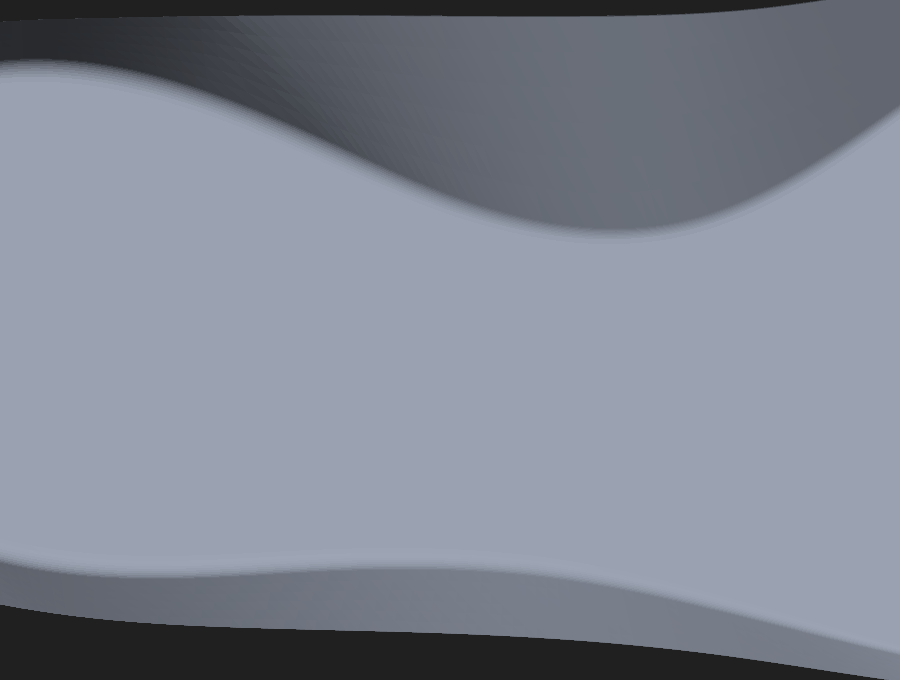
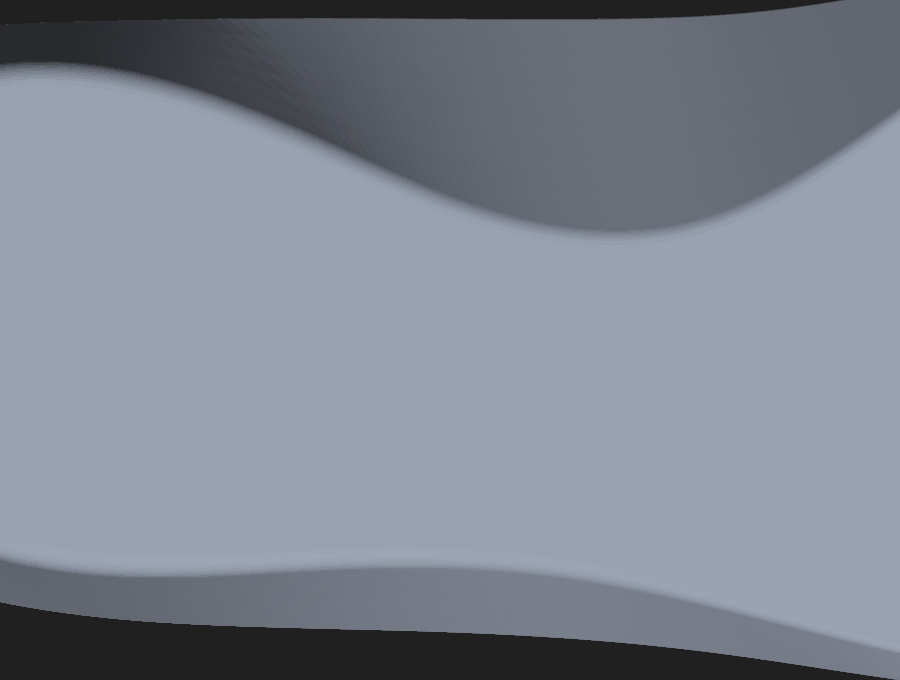
Default bottom patient name to 12 mm bold engrave
Double BOTTOM_CAP default (6→12) for Print/Export and integration textMarking;
extend bottom-engrave manifold coverage at the new default and regen diagnostic PNGs.

diff --git a/vertex/src/lib/geometry/text-marking/bottom-engrave.test.ts b/vertex/src/lib/geometry/text-marking/bottom-engrave.test.ts
@@ -15,6 +15,9 @@ import { assertExactManifold } from "./boolean";
 import { defaultTextMarking } from "./constants";
 import { TextMarkingError } from "./errors";
 
+/** G-code slice simplify threshold (#325); bottom text mesh must stay below this. */
+const SLICE_MESH_SIMPLIFY_ABOVE = 132_000;
+
 const ZERO: SideCorrections = {
     forefootPostingDeg: 0,
     rearfootPostingDeg: 0,
@@ -99,32 +102,62 @@ function openEdgeCount(geo: BufferGeometry): number {
     return open;
 }
 
+function triangleCount(geo: BufferGeometry): number {
+    const index = geo.getIndex();
+    const pos = geo.getAttribute("position");
+    if (index) return index.count / 3;
+    return pos.count / 3;
+}
+
+function defaultBottomPatientMarking() {
+    const marking = defaultTextMarking("bottom");
+    expect(marking.capHeightMm).toBe(12);
+    expect(marking.bold).toBe(true);
+    return {
+        ...marking,
+        text: "",
+        addPatientName: true,
+        anchor: "arch" as const,
+    };
+}
+
 describe("bottom patient-name engrave on SAMPLE_Top", () => {
-    test("TIMOTHY HARTER and GARY PURKEY stay closed at 6 mm bold", async () => {
+    test("12 mm bold default: TIMOTHY HARTER, GARY PURKEY, and 2-line name+extra", async () => {
         for (const side of ["left", "right"] as const) {
             const host = await loftFoot(side);
             const hostVol = Math.abs(signedVolume(host));
-            for (const name of ["TIMOTHY HARTER", "GARY PURKEY"]) {
-                const marking = {
-                    ...defaultTextMarking("bottom"),
-                    text: "",
-                    addPatientName: true,
-                    bold: true,
-                    capHeightMm: 6,
-                    depthMm: 0.6,
-                    anchor: "arch" as const,
-                };
-                const out = await applyTextMarkingToPrintSolid(host, marking, { side }, name);
+            const cases: Array<{
+                patient: string;
+                marking?: ReturnType<typeof defaultBottomPatientMarking>;
+            }> = [
+                { patient: "TIMOTHY HARTER" },
+                { patient: "GARY PURKEY" },
+                {
+                    patient: "TIMOTHY HARTER",
+                    marking: {
+                        ...defaultBottomPatientMarking(),
+                        text: "RX 42",
+                    },
+                },
+            ];
+            for (const { patient, marking = defaultBottomPatientMarking() } of cases) {
+                expect(marking.capHeightMm).toBe(12);
+                const out = await applyTextMarkingToPrintSolid(host, marking, { side }, patient);
                 await assertExactManifold(out);
                 expect(openEdgeCount(out)).toBe(0);
                 expect(hostVol - Math.abs(signedVolume(out))).toBeGreaterThan(0);
+                expect(triangleCount(out)).toBeLessThanOrEqual(SLICE_MESH_SIMPLIFY_ABOVE);
                 const outlines = (out.userData as { bottomOutlineWorld?: unknown[] }).bottomOutlineWorld;
                 expect(outlines?.length ?? 0).toBeGreaterThan(0);
+                const appliedCap = (out.userData as { textMarking?: { capHeightMm?: number } }).textMarking
+                    ?.capHeightMm;
+                expect(appliedCap ?? 0).toBeGreaterThanOrEqual(2.5);
+                expect(appliedCap ?? 99).toBeLessThanOrEqual(12);
                 out.dispose();
             }
             host.dispose();
         }
-    }, 180_000);
+    }, 360_000);
 });
 
 describe("assertExactManifold", () => {

diff --git a/vertex/src/lib/geometry/text-marking/text-marking.test.ts b/vertex/src/lib/geometry/text-marking/text-marking.test.ts
@@ -54,7 +54,9 @@ describe("text marking controls", () => {
     test("UI/geometry bounds: cap, depth, u per surface", () => {
         const bottom = textControlBounds("bottom");
         expect(bottom.capMin).toBe(2.5);
-        expect(bottom.capDefault).toBe(6);
+        expect(bottom.capDefault).toBe(12);
+        expect(defaultTextMarking("bottom").capHeightMm).toBe(12);
+        expect(defaultTextMarking("bottom").bold).toBe(true);
         expect(bottom.capMax).toBe(12);
         expect(bottom.depthMin).toBe(0.3);
         expect(bottom.depthDefault).toBe(0.6);

diff --git a/vertex/shared/bottom-text-marking.ts b/vertex/shared/bottom-text-marking.ts
@@ -40,7 +40,7 @@ export const TEXT_MIN_LETTER_SPACING_MM = 0.6;
 export const TEXT_DEPTH_STEP_MM = 0.1;
 export const TEXT_ROTATION_MAX_DEG = 90;
 
-export const BOTTOM_CAP = { min: 2.5, default: 6, max: 12 } as const;
+export const BOTTOM_CAP = { min: 2.5, default: 12, max: 12 } as const;
 export const BOTTOM_ENGRAVE = { min: 0.3, default: 0.6, max: 1.2 } as const;
 export const BOTTOM_EMBOSS_HEIGHT = { min: 0.3, default: 0.4, max: 1.2 } as const;
 export const BOTTOM_U = { min: 0.12, default: 0.32, max: 0.78 } as const;
